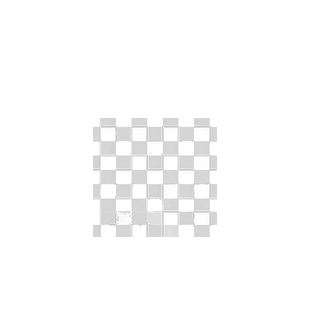
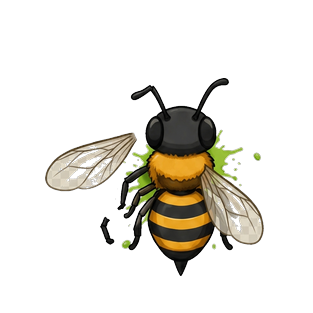
Update bee death sprite and match ant smash behavior.
Use the new death art at a slightly smaller scale, fix smashed sprite loading, and align bee defeat handling with the ant lifecycle pattern.

Changed region(s): [[0.1438, 0.23, 0.8626, 0.8914], [0.8051, 0.4888, 0.8339, 0.5176]]

diff --git a/lib/enemies/smashed_ant.dart b/lib/enemies/smashed_ant.dart
@@ -12,18 +12,9 @@ class SmashedAnt extends SpriteComponent with HasGameReference<AntSmasherGame> {
   static const double _fadeDuration = 0.9;
 
   @override
-  Future<void> onLoad() async {
-    await super.onLoad();
-    if (!isMounted) {
-      return;
-    }
-
-    final image = await game.images.load('ant_smashed.png');
-    if (!isMounted) {
-      return;
-    }
-
-    sprite = Sprite(image);
+  void onLoad() {
+    super.onLoad();
+    sprite = Sprite(game.images.fromCache('ant_smashed.png'));
 
     add(
       OpacityEffect.fadeOut(

diff --git a/lib/enemies/smashed_bee.dart b/lib/enemies/smashed_bee.dart
@@ -12,18 +12,9 @@ class SmashedBee extends SpriteComponent with HasGameReference<AntSmasherGame> {
   static const double _fadeDuration = 0.9;
 
   @override
-  Future<void> onLoad() async {
-    await super.onLoad();
-    if (!isMounted) {
-      return;
-    }
-
-    final image = await game.images.load('bee_smashed.png');
-    if (!isMounted) {
-      return;
-    }
-
-    sprite = Sprite(image);
+  void onLoad() {
+    super.onLoad();
+    sprite = Sprite(game.images.fromCache('bee_smashed.png'));
 
     add(
       OpacityEffect.fadeOut(

diff --git a/lib/enemies/bee_lifecycle.dart b/lib/enemies/bee_lifecycle.dart
@@ -1,6 +1,7 @@
 import 'package:flame/components.dart';
 
 import 'bee_enemy.dart';
+import 'enemy_assets.dart';
 import 'smashed_bee.dart';
 
 /// Single source of truth for bee defeat and escape handling.
@@ -13,15 +14,16 @@ abstract final class BeeLifecycle {
       bee.removeFromParent();
       return;
     }
-    if (game.isGameOver || game.isLevelEnded) {
+    if (!game.isLoaded || game.isGameOver || game.isLevelEnded) {
       return;
     }
 
     game.add(
       SmashedBee(
-        position: bee.position + Vector2(0, bee.bobOffset),
-        size: bee.size.clone(),
-        angle: bee.angle,
+        position: bee.position.clone(),
+        size: Vector2.all(
+          EnemyAssets.beeSmashedDisplaySize(isBoss: bee.isBoss),
+        ),
       ),
     );
     game.registerBeeHit(bee);

diff --git a/lib/enemies/enemy_assets.dart b/lib/enemies/enemy_assets.dart
@@ -14,8 +14,14 @@ class EnemyAssets {
   static const int beeFlyFrameCount = 8;
   static const double beeFlapStepTime = 0.055;
 
+  /// Smashed bee is drawn slightly smaller than the live bee silhouette.
+  static const double beeSmashedDisplayScaleFactor = 0.94;
+
   static double antDisplaySize() => frameSize * antDisplayScale;
 
   static double beeDisplaySize({required bool isBoss}) =>
       frameSize * (isBoss ? bossBeeDisplayScale : beeDisplayScale);
+
+  static double beeSmashedDisplaySize({required bool isBoss}) =>
+      beeDisplaySize(isBoss: isBoss) * beeSmashedDisplayScaleFactor;
 }

diff --git a/lib/enemies/ant_lifecycle.dart b/lib/enemies/ant_lifecycle.dart
@@ -11,7 +11,7 @@ abstract final class AntLifecycle {
       ant.removeFromParent();
       return;
     }
-    if (game.isGameOver || game.isLevelEnded) {
+    if (!game.isLoaded || game.isGameOver || game.isLevelEnded) {
       return;
     }
 

diff --git a/scripts/extract_bee_smashed.py b/scripts/extract_bee_smashed.py
@@ -24,8 +24,8 @@ from PIL import Image
 FRAME_SIZE = 313
 BEE_DISPLAY_SCALE = 0.24
 BEE_FLY_FRAME_COUNT = 8
-# Death art should read smaller than the live bee body on screen.
-DEATH_TO_LIVE_RATIO = 0.52
+# Death art should read slightly smaller than the live bee body on screen.
+DEATH_TO_LIVE_RATIO = 0.92
 DEFAULT_FRAME = 8
 DEFAULT_COLS = 4
 DEFAULT_ROWS = 4
@@ -87,7 +87,7 @@ def parse_args() -> argparse.Namespace:
     parser.add_argument(
         "--rotate",
         type=int,
-        default=180,
+        default=0,
         help="Rotate extracted art clockwise by this many degrees (0 to skip)",
     )
     return parser.parse_args()
@@ -161,6 +161,14 @@ def color_distance(
     return abs(r - br) + abs(g - bg) + abs(b - bb)
 
 
+def is_checkerboard_background(pixel: tuple[int, int, int, int]) -> bool:
+    r, g, b, _ = pixel
+    max_c = max(r, g, b)
+    min_c = min(r, g, b)
+    # Neutral light gray / white cells used in exported checkerboards.
+    return max_c - min_c <= 18 and max_c >= 180
+
+
 def remove_background(
     image: Image.Image,
     threshold: int,
@@ -172,8 +180,12 @@ def remove_background(
 
     for y in range(height):
         for x in range(width):
-            if color_distance(pixels[x, y], background) <= threshold:
-                pixels[x, y] = (pixels[x, y][0], pixels[x, y][1], pixels[x, y][2], 0)
+            pixel = pixels[x, y]
+            if is_checkerboard_background(pixel) or color_distance(
+                pixel,
+                background,
+            ) <= threshold:
+                pixels[x, y] = (pixel[0], pixel[1], pixel[2], 0)
 
     return rgba
 